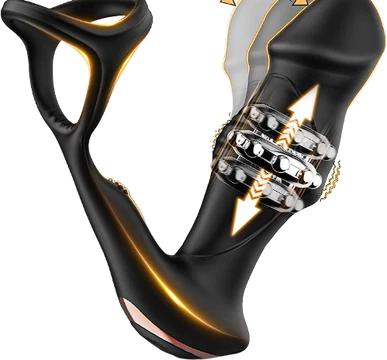
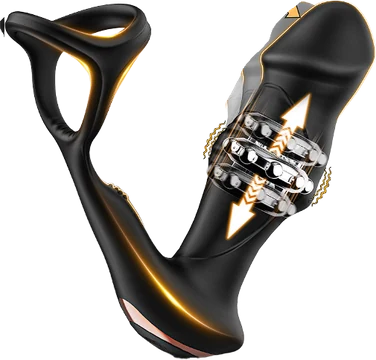
Cleaner Punch and Rhythmic3 pictures, cut out inside the user's marked outline

diff --git a/sw.js b/sw.js
@@ -1,6 +1,6 @@
 // Offline cache: always try the network first (so updates show up immediately),
 // fall back to the cached copy when offline.
-const CACHE = 'toydeck-v17';
+const CACHE = 'toydeck-v18';
 const FILES = [
   './', 'index.html', 'styles.css', 'app.js', 'manifest.webmanifest',
   'icons/icon.svg', 'icons/icon-192.png', 'icons/icon-512.png', 'icons/maskable-512.png',
